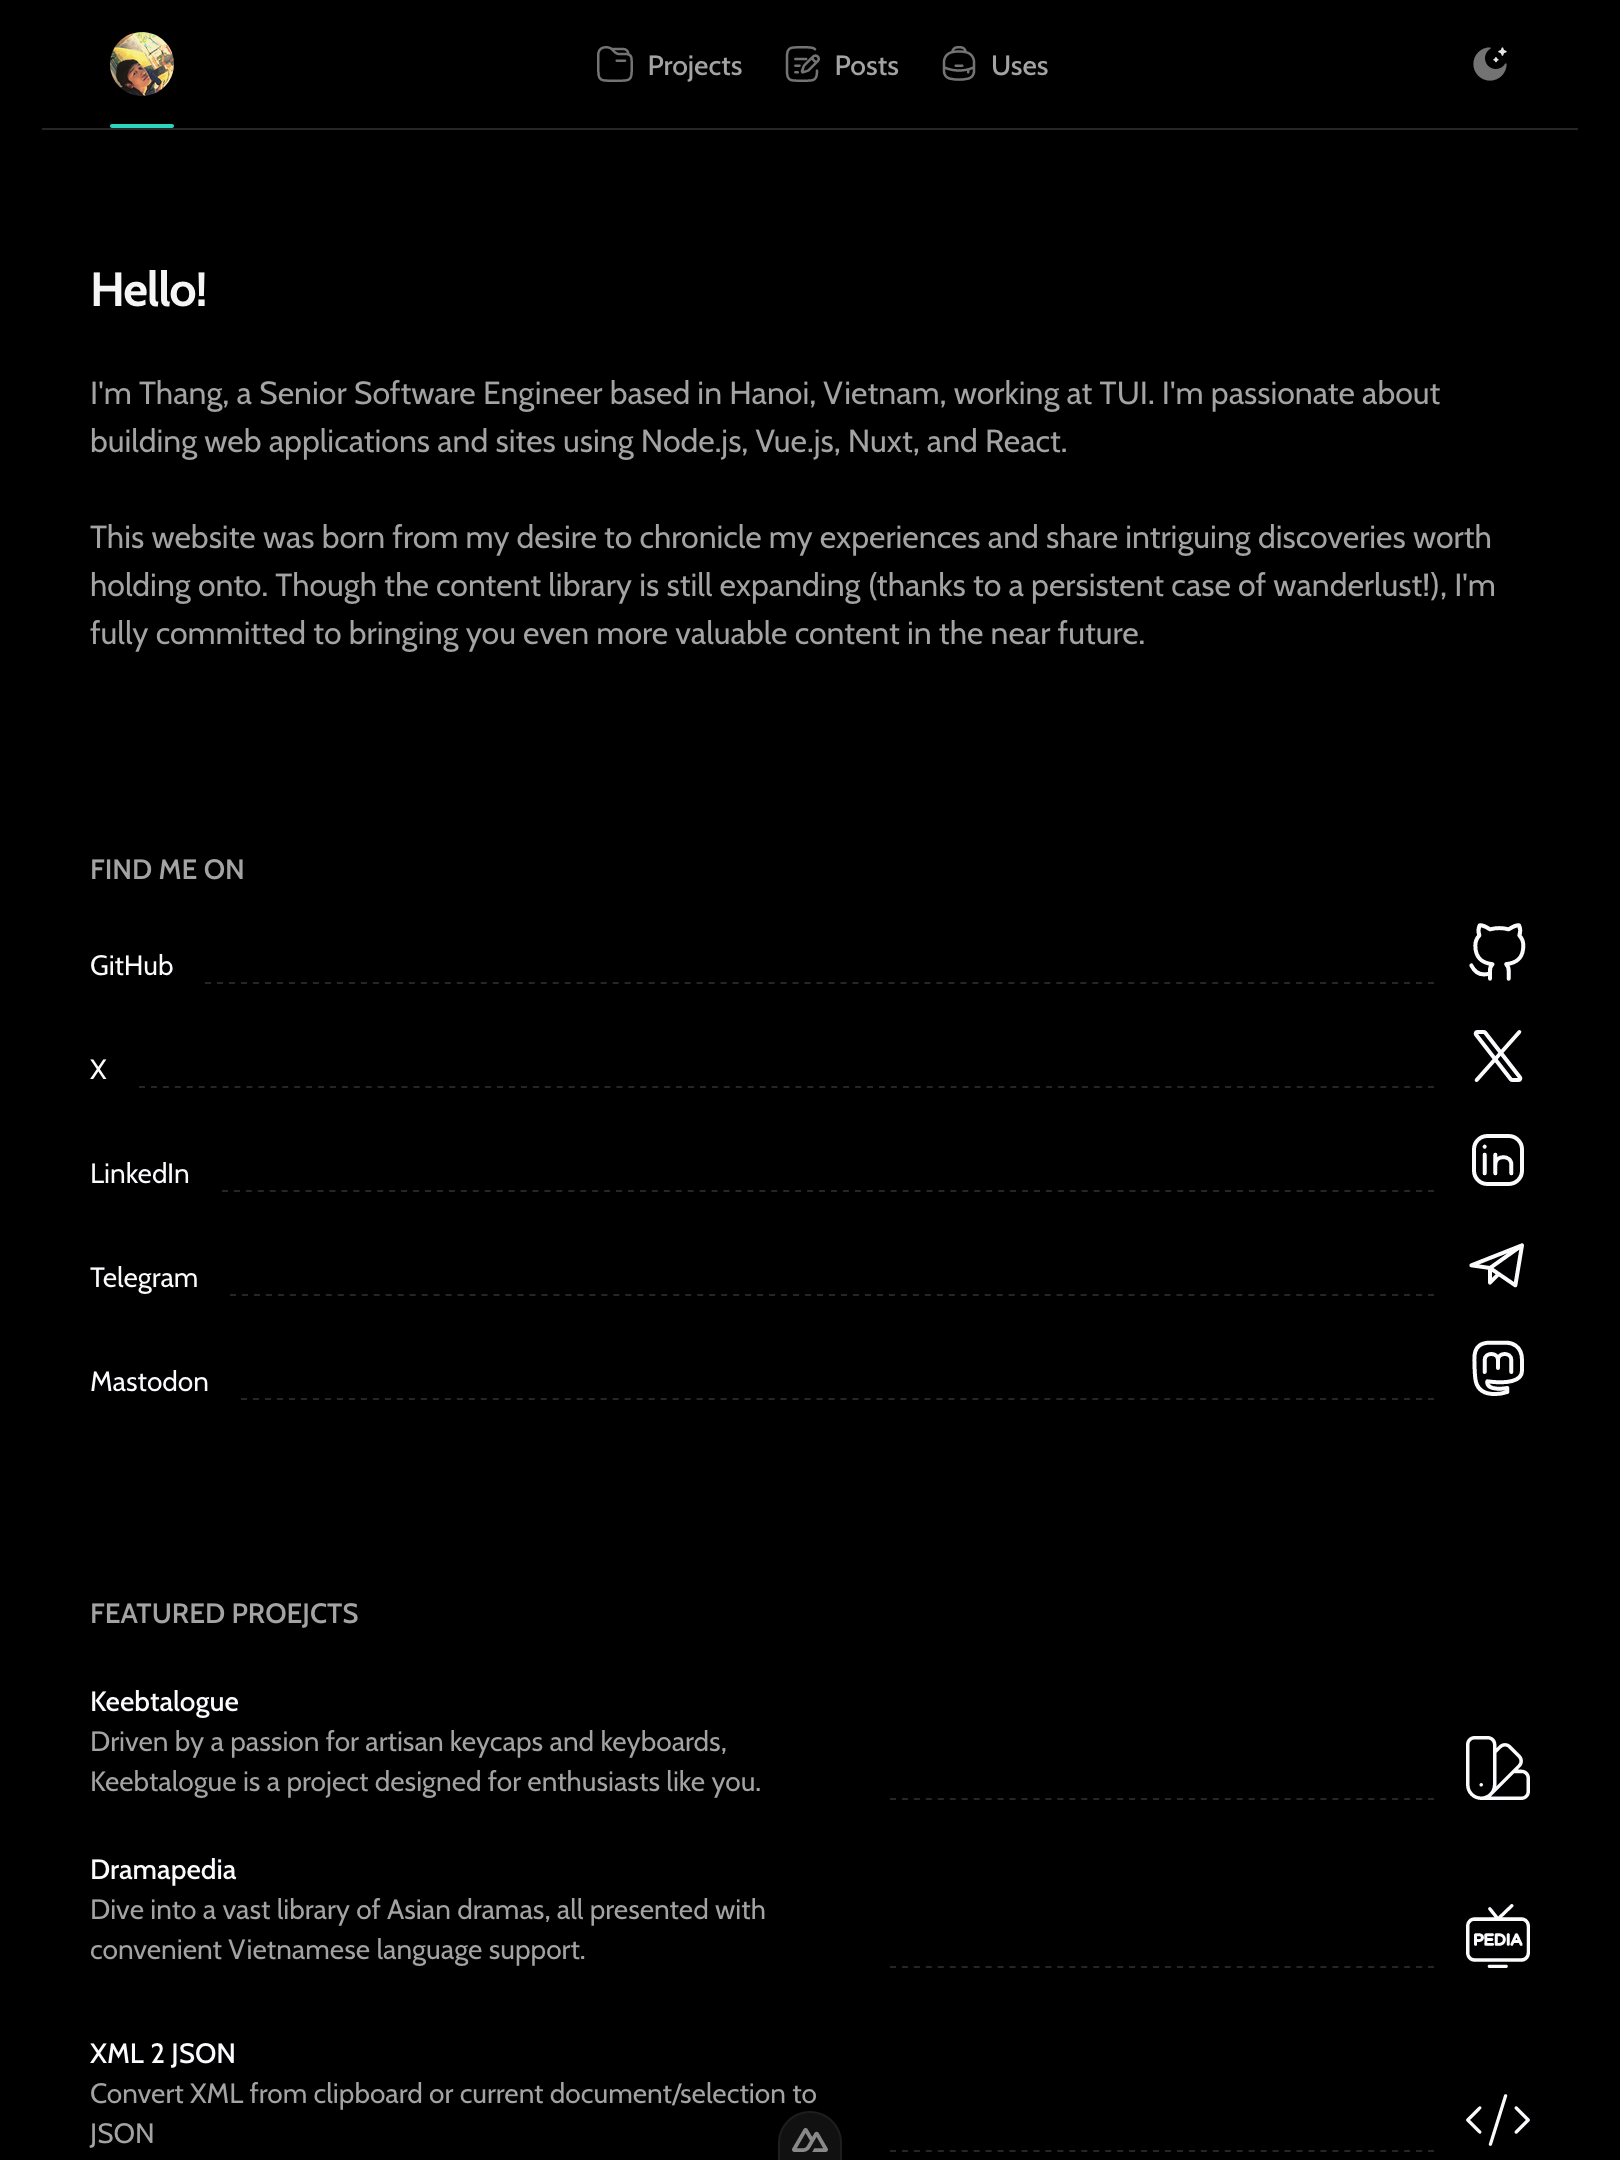
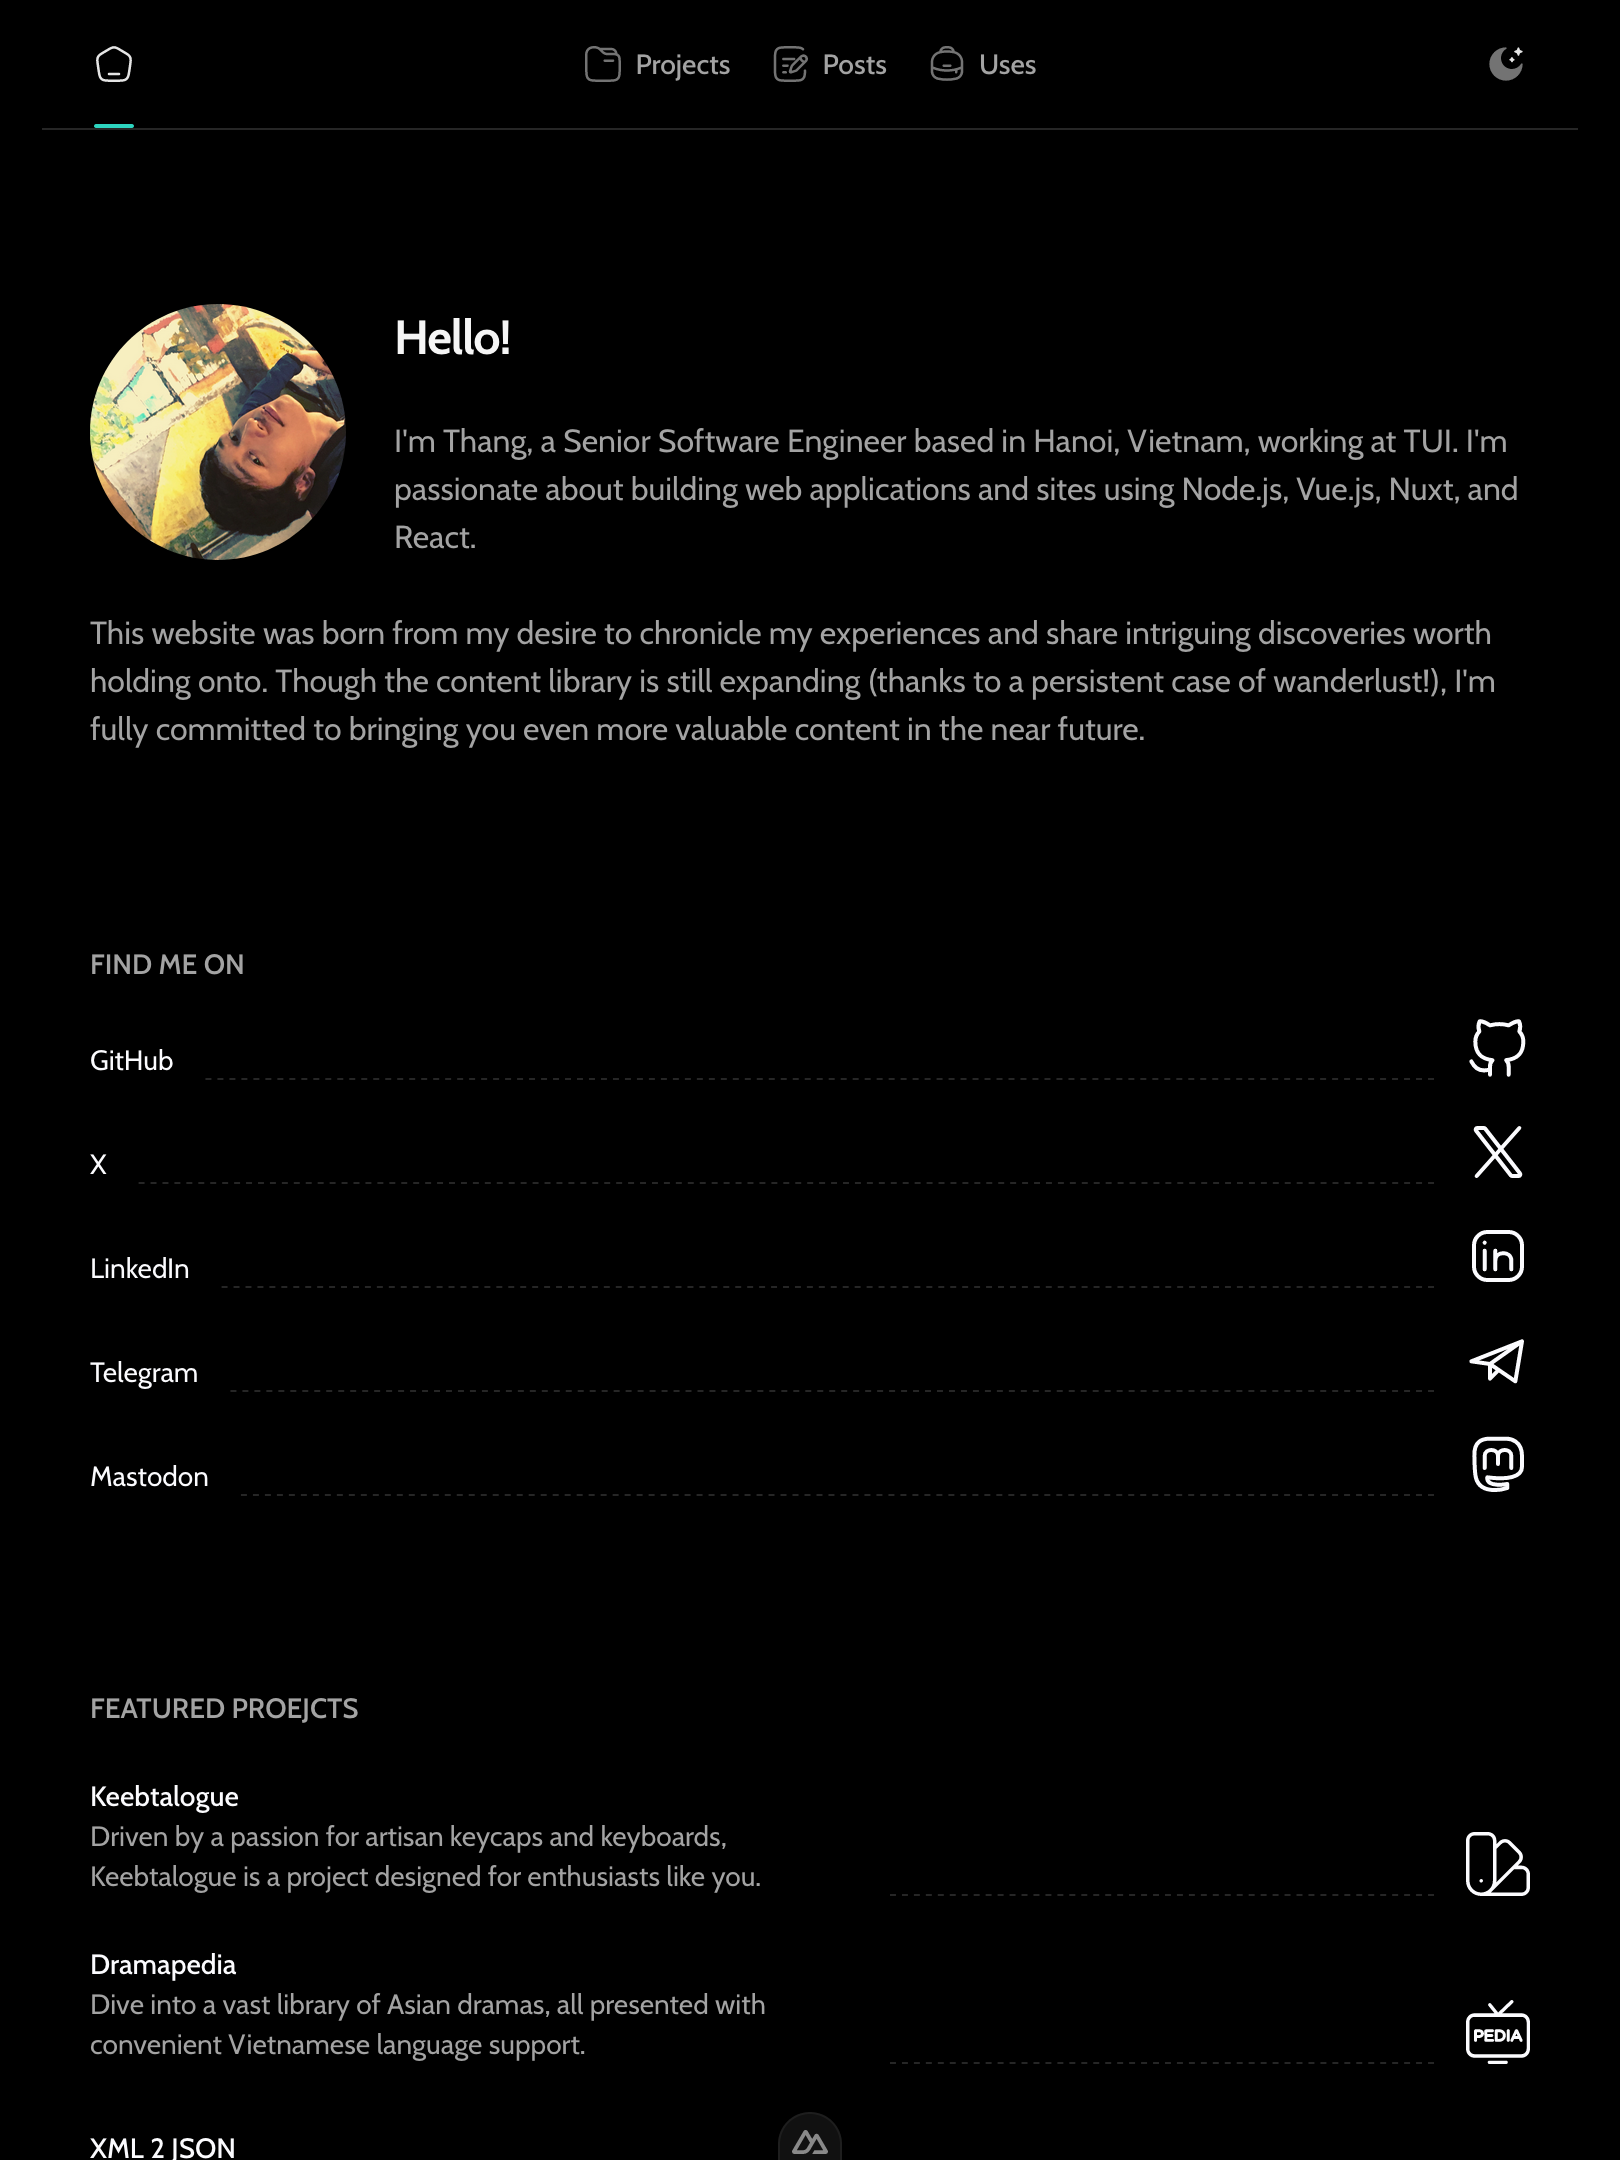
fix: update about me, add more uses items

diff --git a/components/layout/Navbar.vue b/components/layout/Navbar.vue
@@ -20,7 +20,6 @@ const headerRef = ref(null)
 const { styles } = useFixedHeader(headerRef)
 
 const colorMode = useColorMode()
-const config = useRuntimeConfig()
 
 const isDark = computed({
   get() {
@@ -34,11 +33,7 @@ const isDark = computed({
 const left = [
   {
     to: '/',
-    avatar: {
-      src: '/avatar.jpg',
-      alt: config.public.me,
-      size: 'sm',
-    },
+    icon: 'i-solar-home-angle-outline',
   },
 ]
 

diff --git a/tailwind.config.ts b/tailwind.config.ts
@@ -19,8 +19,6 @@ module.exports = {
     fontFamily: {
       sans: [
         'Cabin',
-        'Avenir Next',
-        'Roboto',
         '-apple-system',
         'BlinkMacSystemFont',
         '"Segoe UI"',
@@ -35,7 +33,7 @@ module.exports = {
         '"Noto Color Emoji"',
       ],
       mono: [
-        'Cascadia Code',
+        'Fira Code',
         'ui-monospace',
         'SFMono-Regular',
         'Menlo',

diff --git a/components/AboutMe.vue b/components/AboutMe.vue
@@ -1,5 +1,10 @@
 <template>
-  <div class="space-y-6">
+  <div class="space-y-6 relative">
+    <NuxtImg
+      src="/avatar.jpg"
+      :alt="config.public.me"
+      class="float-left w-32 h-32 rounded-full mr-6 mb-6"
+    />
     <h1
       class="text-2xl font-bold tracking-tight text-gray-800 dark:text-gray-100"
     >
